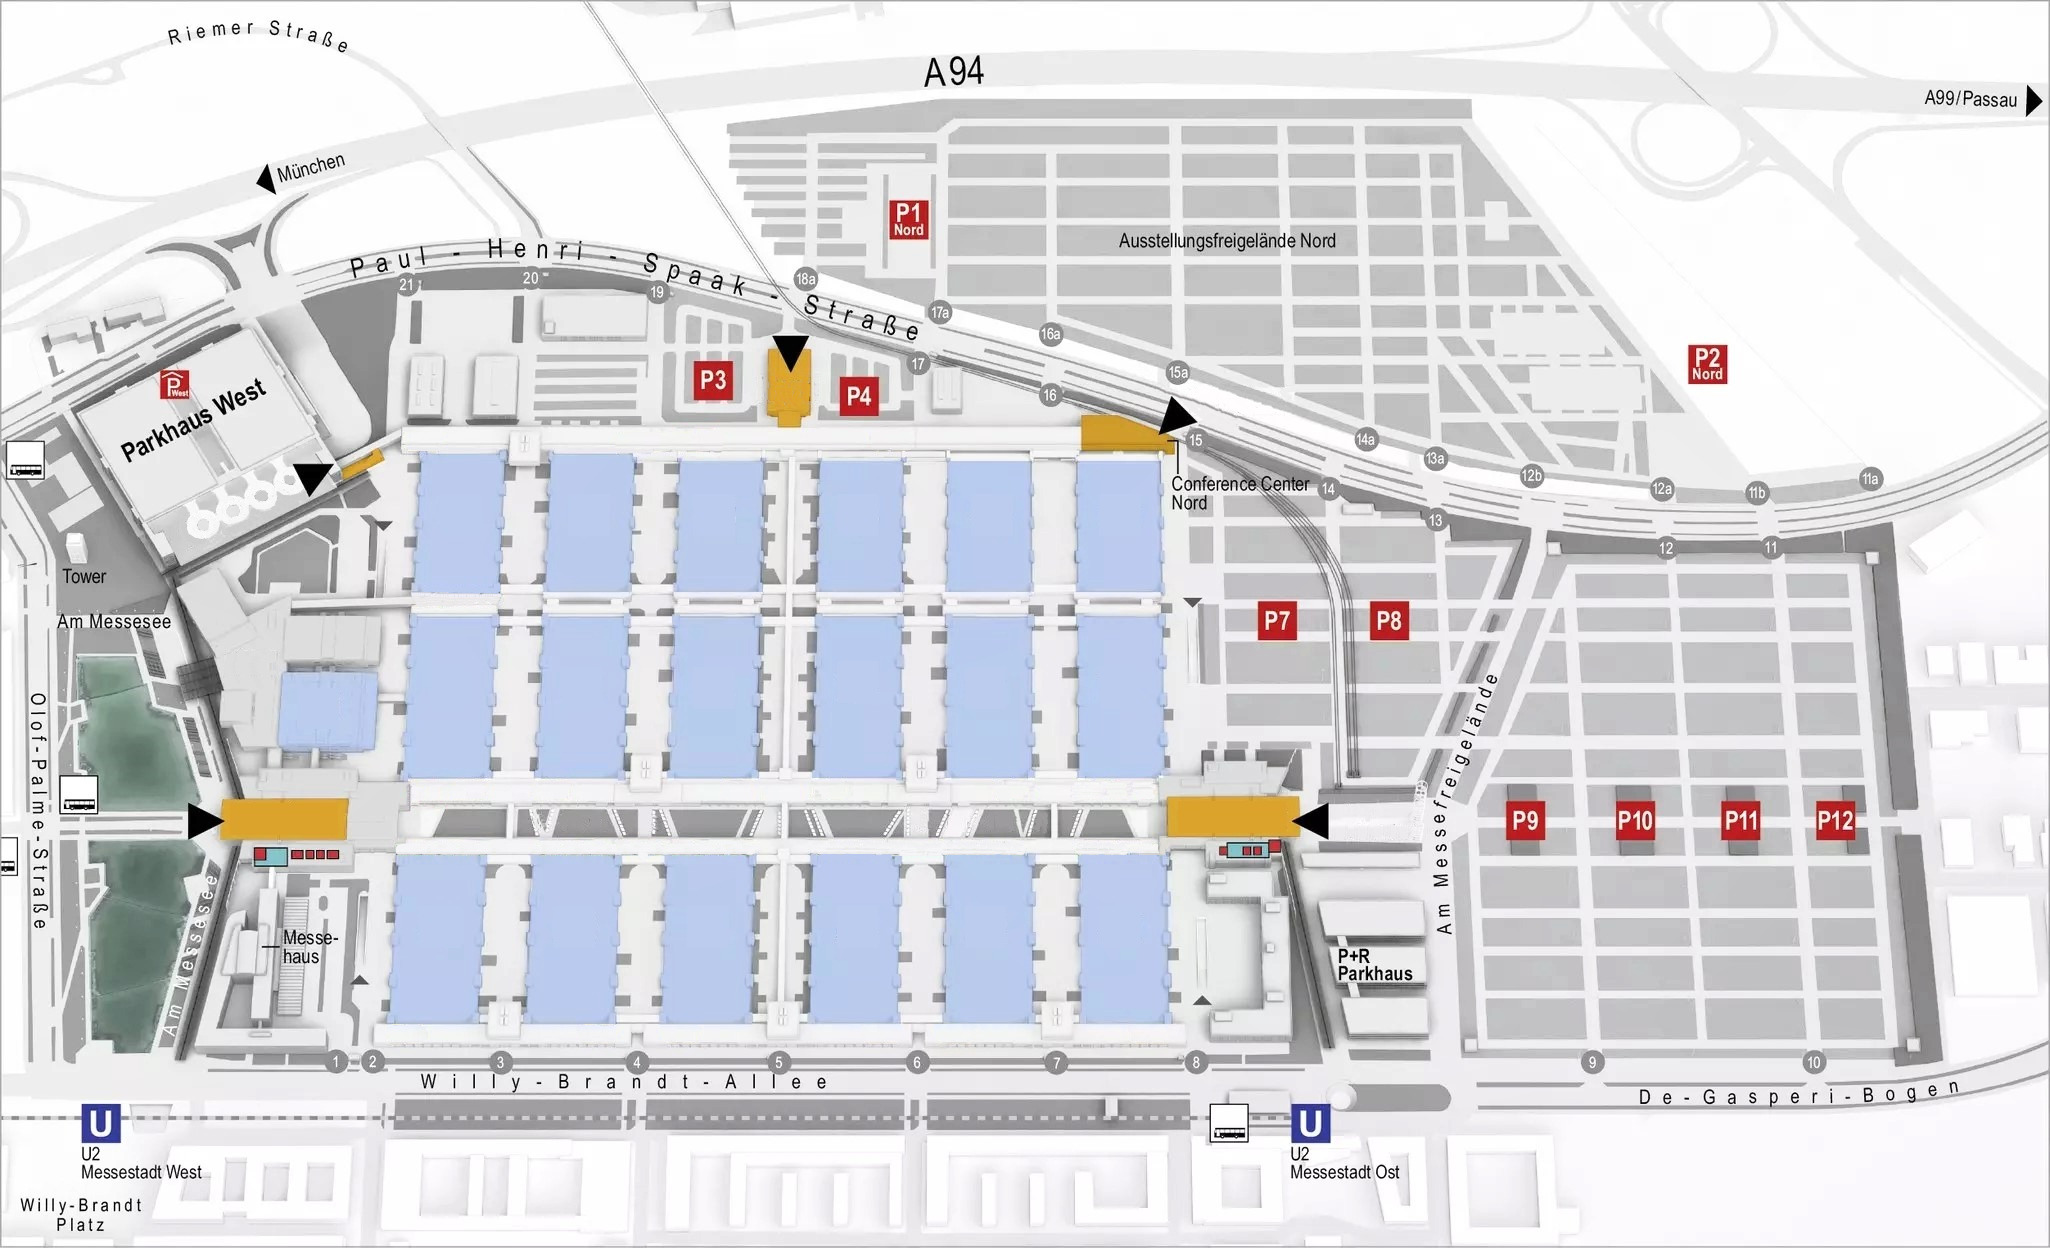
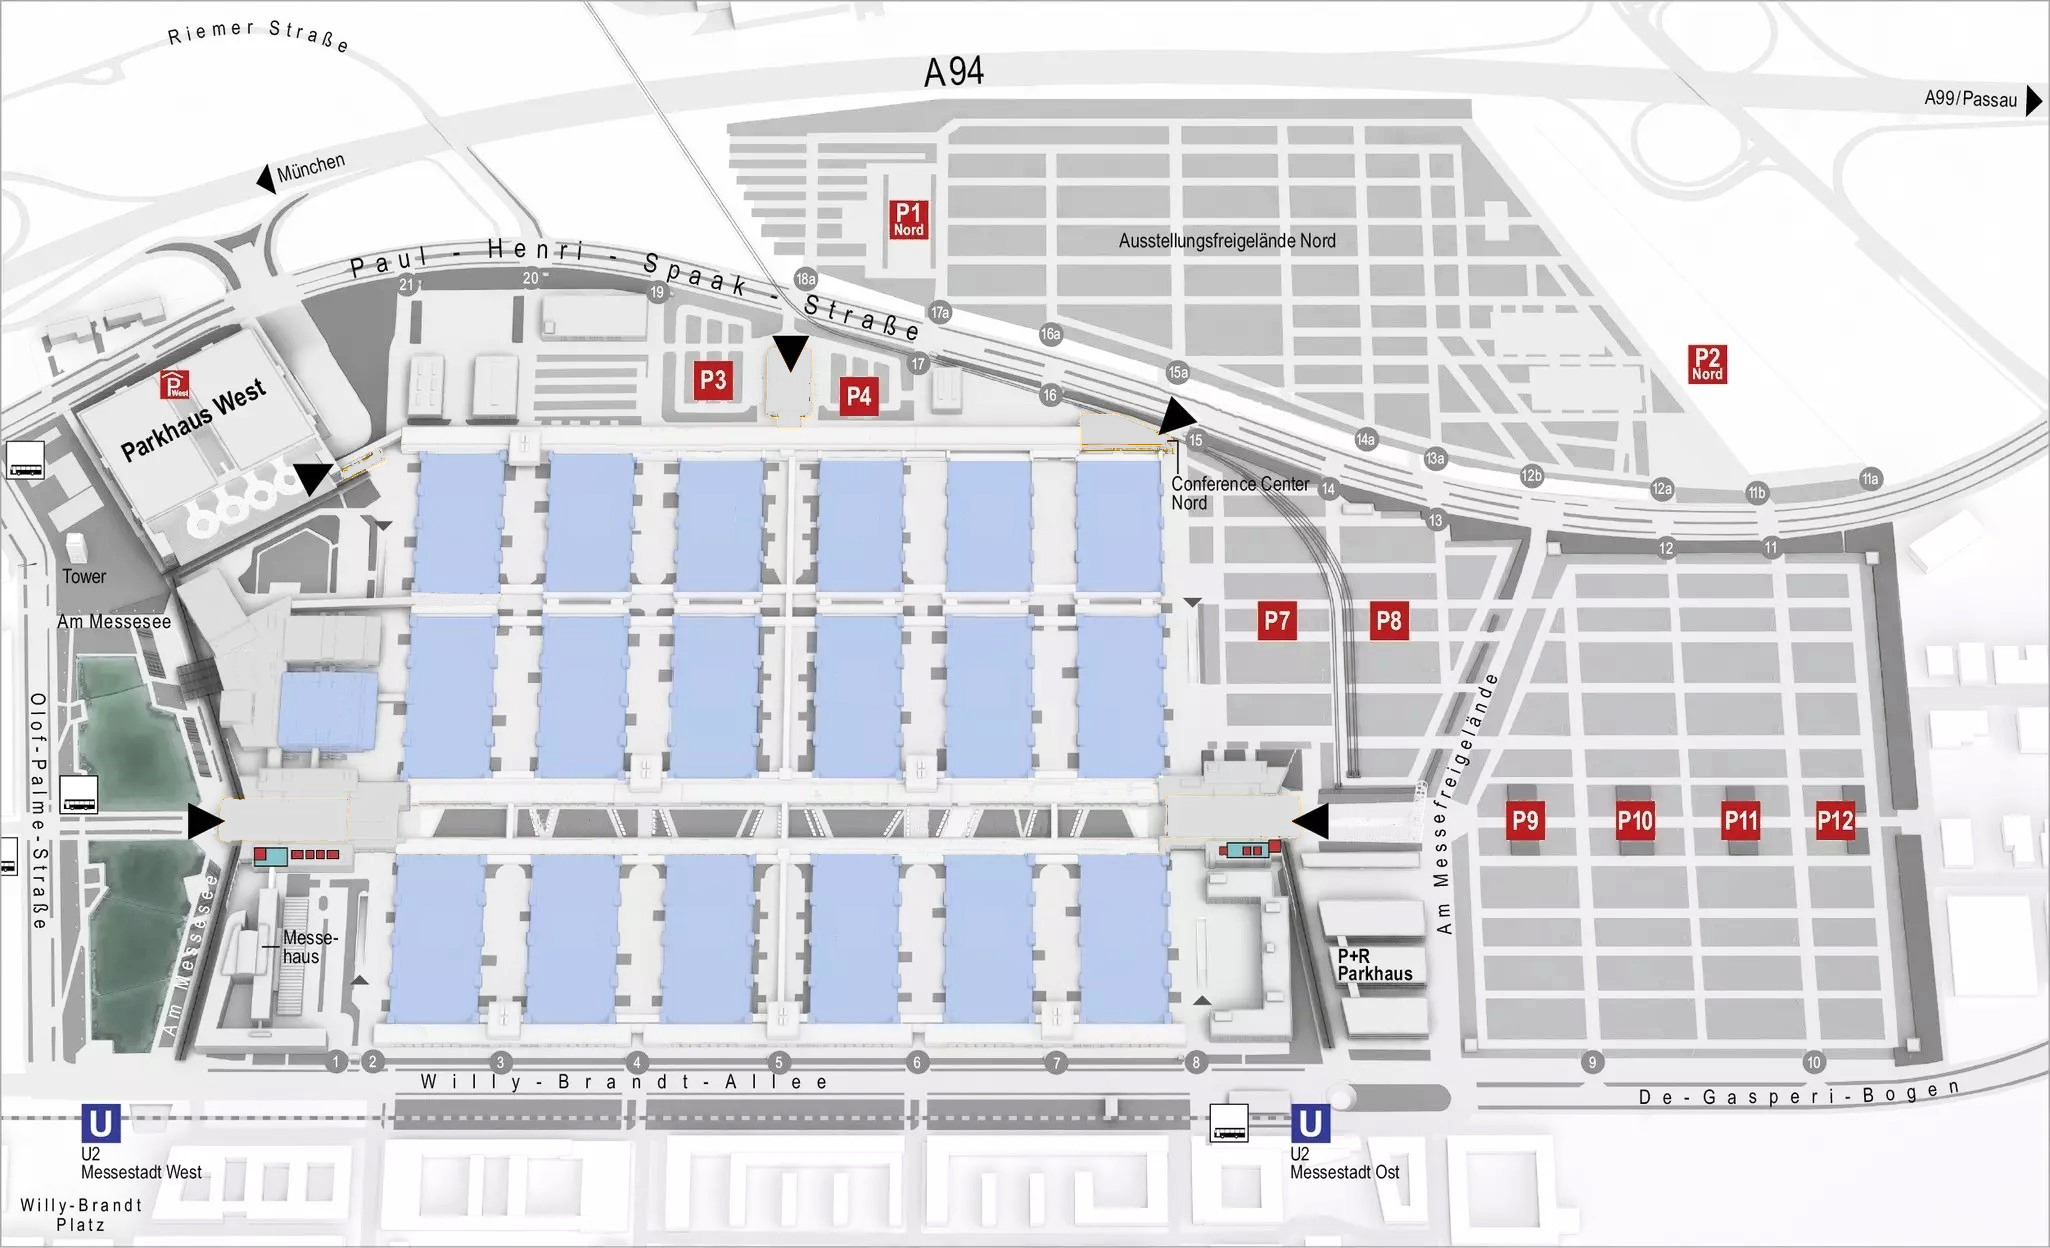
fix: legend overwrite, load of visitor_data, area 0 transparency, map improvement

diff --git a/src/contexts/AreaStatusContext.tsx b/src/contexts/AreaStatusContext.tsx
@@ -1,19 +1,17 @@
 import React, { createContext, useContext, useState, useEffect } from "react";
 import { AreaStatus, LegendRow } from "@/types";
-import { getAreaSettings, getLegend, refreshLegend, updateAreaSettings } from "@/utils/api";
+import { getAreaSettings, getLegend, updateLegend, updateAreaSettings } from "@/utils/api";
 import { toast } from "@/components/ui/use-toast";
 
 interface AreaStatusContextProps {
   areaStatus: AreaStatus[];
-  refreshAreaStatus: () => Promise<void>;
+  refreshAreaStatus: (timefilter?: number) => Promise<void>;
   updateAreaStatus: (updatedArea: AreaStatus) => void;
   isRefreshing: boolean;
   selectedArea: AreaStatus | null;
   setSelectedArea: React.Dispatch<React.SetStateAction<AreaStatus | null>>;
   legendRows: Partial<LegendRow>[];
   setLegendRows: React.Dispatch<React.SetStateAction<Partial<LegendRow>[]>>;
-  setTimeFilter: React.Dispatch<React.SetStateAction<number>>;
-  timeFilter: number;
 }
 
 const AreaStatusContext = createContext<AreaStatusContextProps | undefined>(undefined);
@@ -23,16 +21,14 @@ export const AreaStatusProvider: React.FC<{ children: React.ReactNode }> = ({ ch
   const [isRefreshing, setRefreshing] = useState(false);
   const [selectedArea, setSelectedArea] = useState<AreaStatus | null>(null);
   const [legendRows, setLegendRowsState] = useState<Partial<LegendRow>[]>([{ object: "", object_en: "", description_de: "", description_en: "" }]);
-  const [timeFilter, setTimeFilter] = useState(1440);
 
   // Fetch initial data
-  const refreshAreaStatus = async () => {
+  const refreshAreaStatus = async (timefilter?: number) => {
     try {
       setRefreshing(true);
-      const data = await getAreaSettings(timeFilter);
+      const data = await getAreaSettings(timefilter);
       const data2 = await getLegend();
-      setLegendRows(data2)
-      console.log("Fetched area settings:", data2);
+      setLegendRowsState(data2)
       setAreaStatus(data);
         setRefreshing(false);
     } catch (error) {
@@ -49,7 +45,7 @@ export const AreaStatusProvider: React.FC<{ children: React.ReactNode }> = ({ ch
   const setLegendRows = async (updatedLegend: Partial<LegendRow>[]) => {
     try {
       setLegendRowsState(updatedLegend);
-      const data = await refreshLegend(updatedLegend);
+      const data = await updateLegend(updatedLegend);
       console.log("Legend rows refreshed:", data);
     } catch (error) {
       console.error("Error refreshing legend rows:", error);
@@ -70,12 +66,8 @@ export const AreaStatusProvider: React.FC<{ children: React.ReactNode }> = ({ ch
     refreshAreaStatus(); // Optionally refresh the entire list after an update
   };
 
-  useEffect(() => {
-    refreshAreaStatus();
-  }, [timeFilter]);
-
   return (
-    <AreaStatusContext.Provider value={{ areaStatus, selectedArea, legendRows, setLegendRows, setTimeFilter, timeFilter, setSelectedArea, refreshAreaStatus, isRefreshing, updateAreaStatus }}>
+    <AreaStatusContext.Provider value={{ areaStatus, selectedArea, legendRows, setLegendRows, setSelectedArea, refreshAreaStatus, isRefreshing, updateAreaStatus }}>
       {children}
     </AreaStatusContext.Provider>
   );

diff --git a/src/pages/Security.tsx b/src/pages/Security.tsx
@@ -1,14 +1,9 @@
 import React, { useState, useEffect } from 'react';
 import Header from '@/components/Header';
 import ExhibitionMap from '@/components/ExhibitionMap';
-import { Button } from '@/components/ui/button';
 import { Separator } from '@/components/ui/separator';
-import { toast } from '@/components/ui/use-toast';
-import { getAreaSettings } from '@/utils/api';
 import { AreaStatus } from '@/types';
 import AreaSettingsAccordion from '@/components/AreaSettingsAccordion';
-import { refreshLegend, getLegend } from "@/utils/api";
-import { LegendRow } from "@/types";
 import { Label } from '@/components/ui/label';
 import { Trash, Save, Search } from 'lucide-react';
 import { Input } from '@/components/ui/input';
@@ -16,10 +11,11 @@ import { Checkbox } from '@/components/ui/checkbox';
 import { useAreaStatus } from "@/contexts/AreaStatusContext";
 
 const Security = () => {
-  const { selectedArea, legendRows, setLegendRows, setSelectedArea, updateAreaStatus, setTimeFilter, timeFilter, areaStatus } = useAreaStatus();
+  const { selectedArea, legendRows, setLegendRows, setSelectedArea, refreshAreaStatus, areaStatus } = useAreaStatus();
   const [showGermanTitle, setShowGermanTitle] = useState<boolean>(false);
   const [showAbsolute, setShowAbsolute] = useState(true);
   const [showPercentage, setShowPercentage] = useState(true);
+  const [timeFilter, setTimeFilter] = useState(1440); // Default to 24 hours
 
 
   // Filter states for warnings
@@ -28,28 +24,8 @@ const Security = () => {
   const [showHalls, setShowHalls] = useState(true);
 
   useEffect(() => {
-    const fetchInitialData = async () => {
-      try {
-        const areaData = await getAreaSettings();
-        console.log("Fetched area data:", areaData);
-        const legendData = await getLegend();
-        setLegendRows(legendData);
-        // setAreas(areaData);
-        if (areaData.length > 0) {
-          // setSelectedArea(areaData[0]);
-        }
-      } catch (error) {
-        console.error('Error fetching initial data:', error);
-        toast({
-          title: 'Fehler',
-          description: 'Die Einstellungen konnten nicht geladen werden.',
-          variant: 'destructive',
-        });
-      }
-    };
-    
-    fetchInitialData();
-  }, []);
+    refreshAreaStatus(timeFilter);
+  }, [timeFilter]);
 
   useEffect(() => {
       const intervalId = setInterval(() => {

diff --git a/src/pages/Admin.tsx b/src/pages/Admin.tsx
@@ -4,11 +4,8 @@ import ExhibitionMap from '@/components/ExhibitionMap';
 import { Button } from '@/components/ui/button';
 import { Separator } from '@/components/ui/separator';
 import { toast } from '@/components/ui/use-toast';
-import { getAreaSettings } from '@/utils/api';
 import { AreaStatus } from '@/types';
 import AreaSettingsAccordion from '@/components/AreaSettingsAccordion';
-import { refreshLegend, getLegend } from "@/utils/api";
-import { LegendRow } from "@/types";
 import { Label } from '@/components/ui/label';
 import { Trash, Save } from 'lucide-react';
 import { Input } from '@/components/ui/input';
@@ -16,7 +13,7 @@ import { Checkbox } from '@/components/ui/checkbox';
 import { useAreaStatus } from "@/contexts/AreaStatusContext";
 
 const Admin = () => {
-  const { selectedArea, legendRows, setLegendRows, setSelectedArea, setTimeFilter, timeFilter } = useAreaStatus();
+  const { selectedArea, legendRows, setLegendRows, setSelectedArea, refreshAreaStatus } = useAreaStatus();
 
   const [showGermanTitle, setShowGermanTitle] = useState<boolean>(false);
   const [showAbsolute, setShowAbsolute] = useState(true);
@@ -24,6 +21,7 @@ const Admin = () => {
   const [showConfigurator, setShowConfigurator] = useState(false);
   const [isHighlighted, setIsHighlighted] = useState(false);
   const [hasUserSelectedArea, setHasUserSelectedArea] = useState(false);
+  const [timeFilter, setTimeFilter] = useState(1440); // Default to 24 hours
 
   useEffect(() => {
     // Set up interval to toggle German title every 8 seconds
@@ -33,6 +31,11 @@ const Admin = () => {
     
     return () => clearInterval (intervalId);
   }, []);
+
+  // Fetch area settings on initial load and when time filter changes
+  useEffect(() => {
+    refreshAreaStatus(timeFilter);
+  }, [timeFilter]);
 
   useEffect(() => {
     if (selectedArea && hasUserSelectedArea) {
@@ -52,7 +55,7 @@ const Admin = () => {
 
   const handleLegendRefresh = async () => {
     try {
-      await refreshLegend(legendRows)
+      await setLegendRows(legendRows)
       toast({
         title: "Legende aktualisiert",
         description: "Die Schwellenwerte für die Legende wurden erfolgreich aktualisiert.",

diff --git a/src/components/ExhibitionMap.tsx b/src/components/ExhibitionMap.tsx
@@ -228,12 +228,17 @@ const ExhibitionMap: React.FC<ExhibitionMapProps> = ({
                   });
                 }
 
-                const lineHeight = 18; // adjust as needed
+                const lineHeight = 22; // adjust as needed
                 const totalHeight = lines.length * lineHeight;
                 const availableHeight = maxY - minY;
 
                 // Determine if horizontal alignment is needed
                 const useHorizontalAlignment = totalHeight > availableHeight;
+
+                // Calculate horizontal alignment
+                const lineSpacing = 70; // Adjust spacing between lines
+                const totalWidth = lines.length * lineSpacing - lineSpacing; // Total width of all lines
+                const startX = cx - totalWidth / 2; // Start position for horizontal alignment
 
                 const startY = cy - totalHeight / 2 + lineHeight / 2;
 
@@ -257,7 +262,7 @@ const ExhibitionMap: React.FC<ExhibitionMapProps> = ({
                         .map((point: { x: number; y: number }) => `${point.x},${point.y}`)
                         .join(" ")}
                       fill={fillColor}
-                      fillOpacity={0.4}
+                      fillOpacity={1}
                       stroke={isSelected ? "#000" : "#667080"}
                       strokeWidth={isSelected ? 2 : 0}
                       strokeDasharray={strokeStyle}
@@ -279,11 +284,11 @@ const ExhibitionMap: React.FC<ExhibitionMapProps> = ({
                         inactive
                       </text>
                     ) : useHorizontalAlignment ? (
-                      // Render lines horizontally
+                      // Render lines horizontally with central alignment
                       lines.map((line, index) => (
                         <text
                           key={index}
-                          x={cx + index * 50} // Adjust spacing between lines
+                          x={startX + index * lineSpacing} // Adjust spacing between lines
                           y={cy}
                           textAnchor="middle"
                           dominantBaseline="middle"

diff --git a/src/utils/api.ts b/src/utils/api.ts
@@ -26,6 +26,7 @@ export const getAreaSettings = async (filter_minutes?: number): Promise<AreaStat
   try {
     const { data, error } = await supabase.rpc("get_area_status_filtered", { filter_minutes: filter_minutes || 0 });
 
+    console.log('Fetched area settings:', data);
     if (error) throw error;
     
     return data
@@ -189,7 +190,7 @@ export const getOccupancyColor = (threshold?: Threshold): string => {
 };
 
 
-export const refreshLegend = async (LegendRows: Partial<LegendRow>[]) => {
+export const updateLegend = async (LegendRows: Partial<LegendRow>[]) => {
   try {
     const { data, error } = await supabase.rpc('refresh_legend', { legend_rows: LegendRows });
     if (error) throw error;
